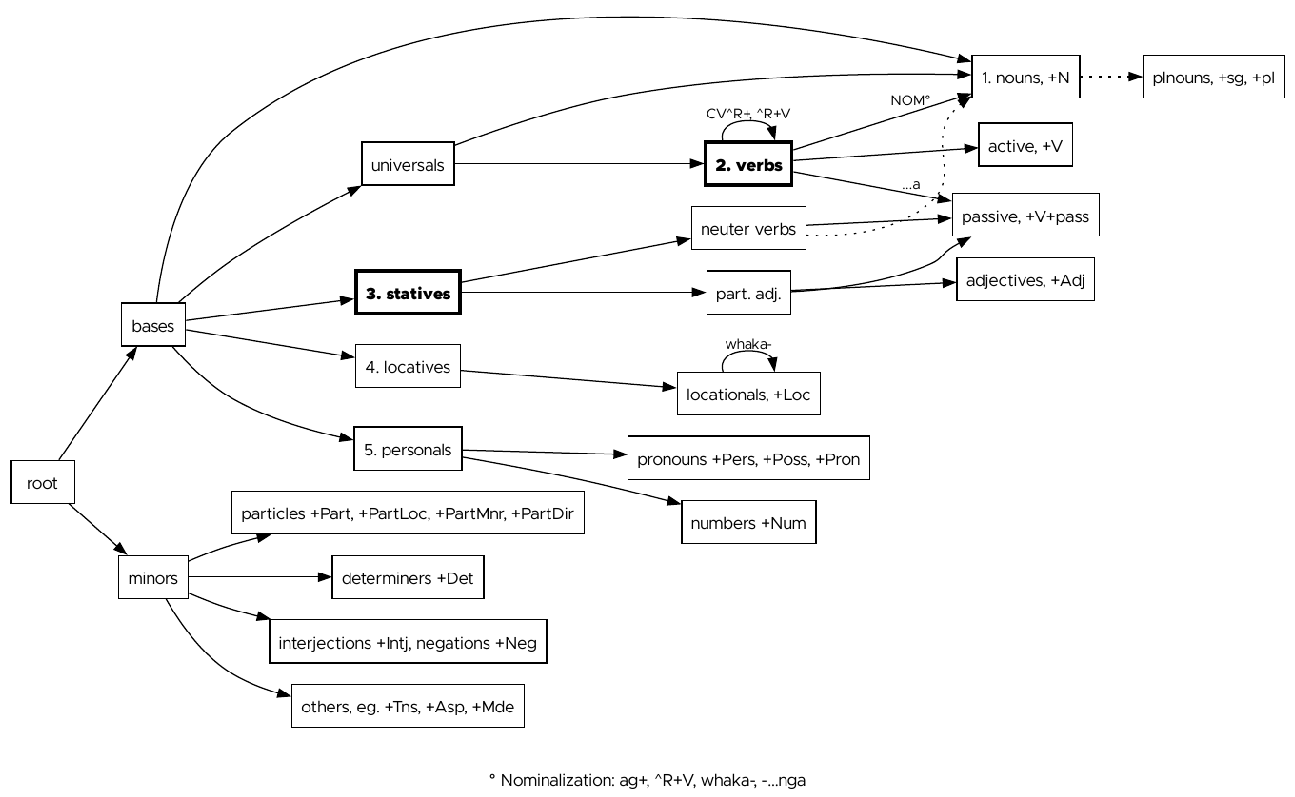
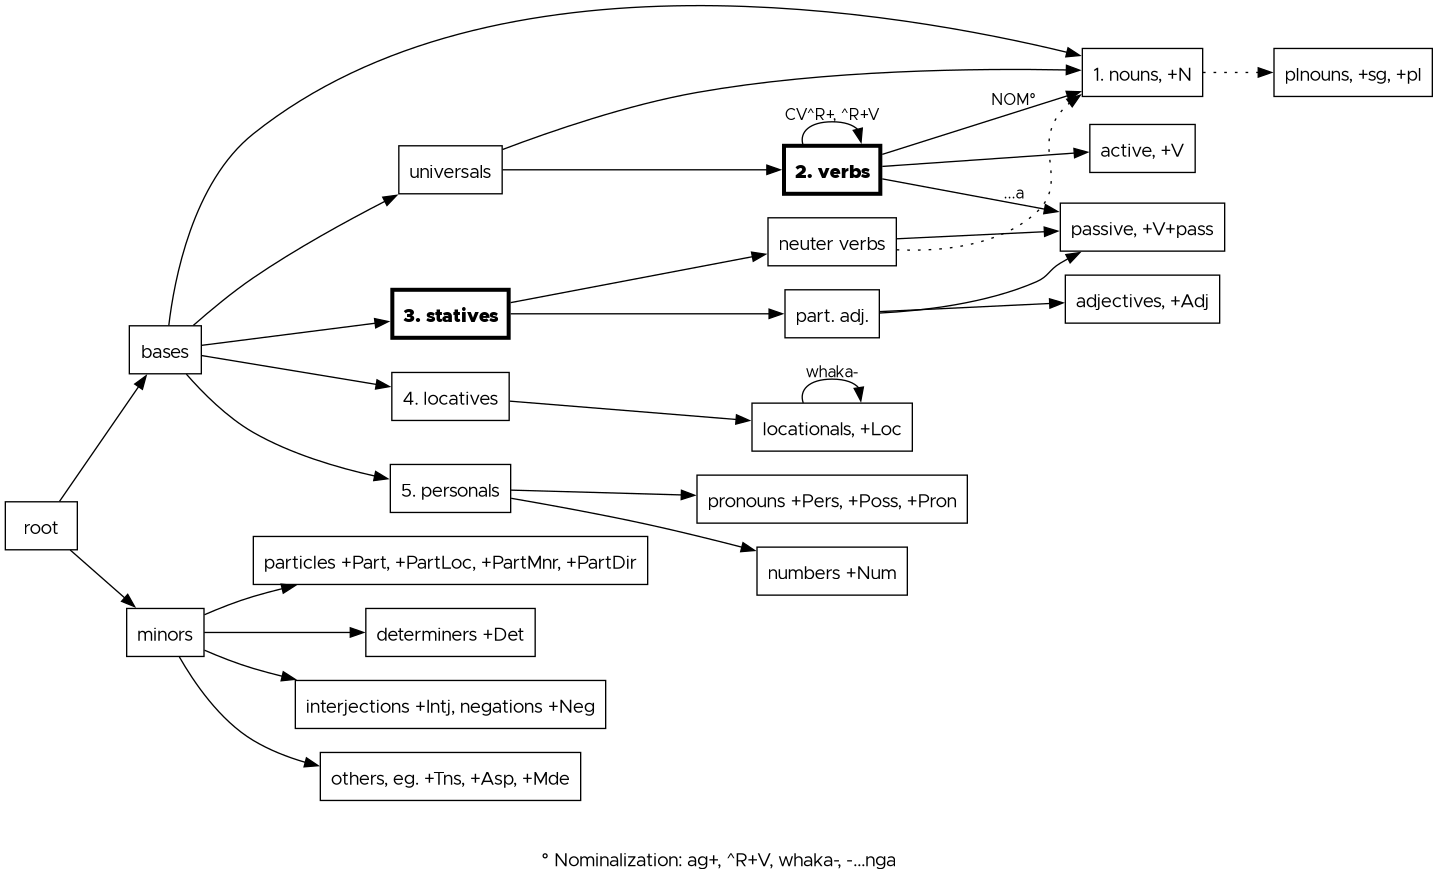
Added source files, changed paths

diff --git a/README.md b/README.md
@@ -1,11 +1,11 @@
 **Computational Morphology, Summer 2026**
 ## Māori via xfst
 
-This project provides a lexicon for generating Māori words as compositions of morphemes, bounded by constraints. It is focusing on verbs/universals to demonstrate Xfst (Xerox finite-state tool) functionality on the one hand, and on a wide coverage of common words on the other hand. 
+This project generates Māori words as compositions of morphemes, bounded by constraints. It is focusing on verbs/universals to demonstrate Xfst (Xerox finite-state tool) functionality on the one hand, and on a adequate coverage of common words on the other hand. 
 
 ### Description
 
-Modeled are actual words as **lower words** like *whakarunga* and as corresponding **upper words** their lexical form, as an abstract representation, in this example *caus+runga+Locativ*. 
+Modeled are actual words as **lower words** like *'whakarunga'* (upwards, towards the top) and as corresponding **upper words** their lexical form, as an abstract representation. In this example, *'caus+runga+Loc'* denotes the *whaka-* causative on the locational *runga* (up, on top). 
 
 ### Requirements
 * xfst Software (e.g. Kenneth R. Beesley and Lauri Karttunen. Finite State Morphology. CSLI Studies in Computational Linguistics. 2003, formerly http://fsmbook.com) 
@@ -14,13 +14,13 @@ Modeled are actual words as **lower words** like *whakarunga* and as correspondi
 
 ### Project Structure
 ```text
-├── README.md      short intro
-├── data/          input and test data
-│   └── ...        (test-files like maori-words.txt)
-├── docs/          documentation
-└── src/           .xfst source files
-    ├── blocks/    BuildingBlocks
+├── README.md       short intro
+├── data/...        test data
+├── docs/...        documentation
+└── src/            .xfst source files
+    ├── blocks/...  BuildingBlocks
     ├── maori.xfst
+    ├── maori-guesser.xfst
     └── maori-lexc.xfst
 ```
 ### Installation and Usage
@@ -36,8 +36,8 @@ source maori.xfst
 After loading the entry-point, the project is running. Default output are lower words, followed by upper words. Both lists are sorted alphabetically. Other standard-outputs can be found in maori.xfst. These lines could be uncommented via removing the trailing `!`. 
 
 ### Overview 
-The following lexica structure has been created (simplified representation): 
-[Contents of the main files: structure](docs/word-forms.png)
+The following branching structure has been created (simplified representation): 
+![Contents of the main files: structure](docs/word-forms.png) 
 
 ### Known Limitations
 * Scope focuses on verbal morphology (including the neigbouring word classes universals and statives). 
